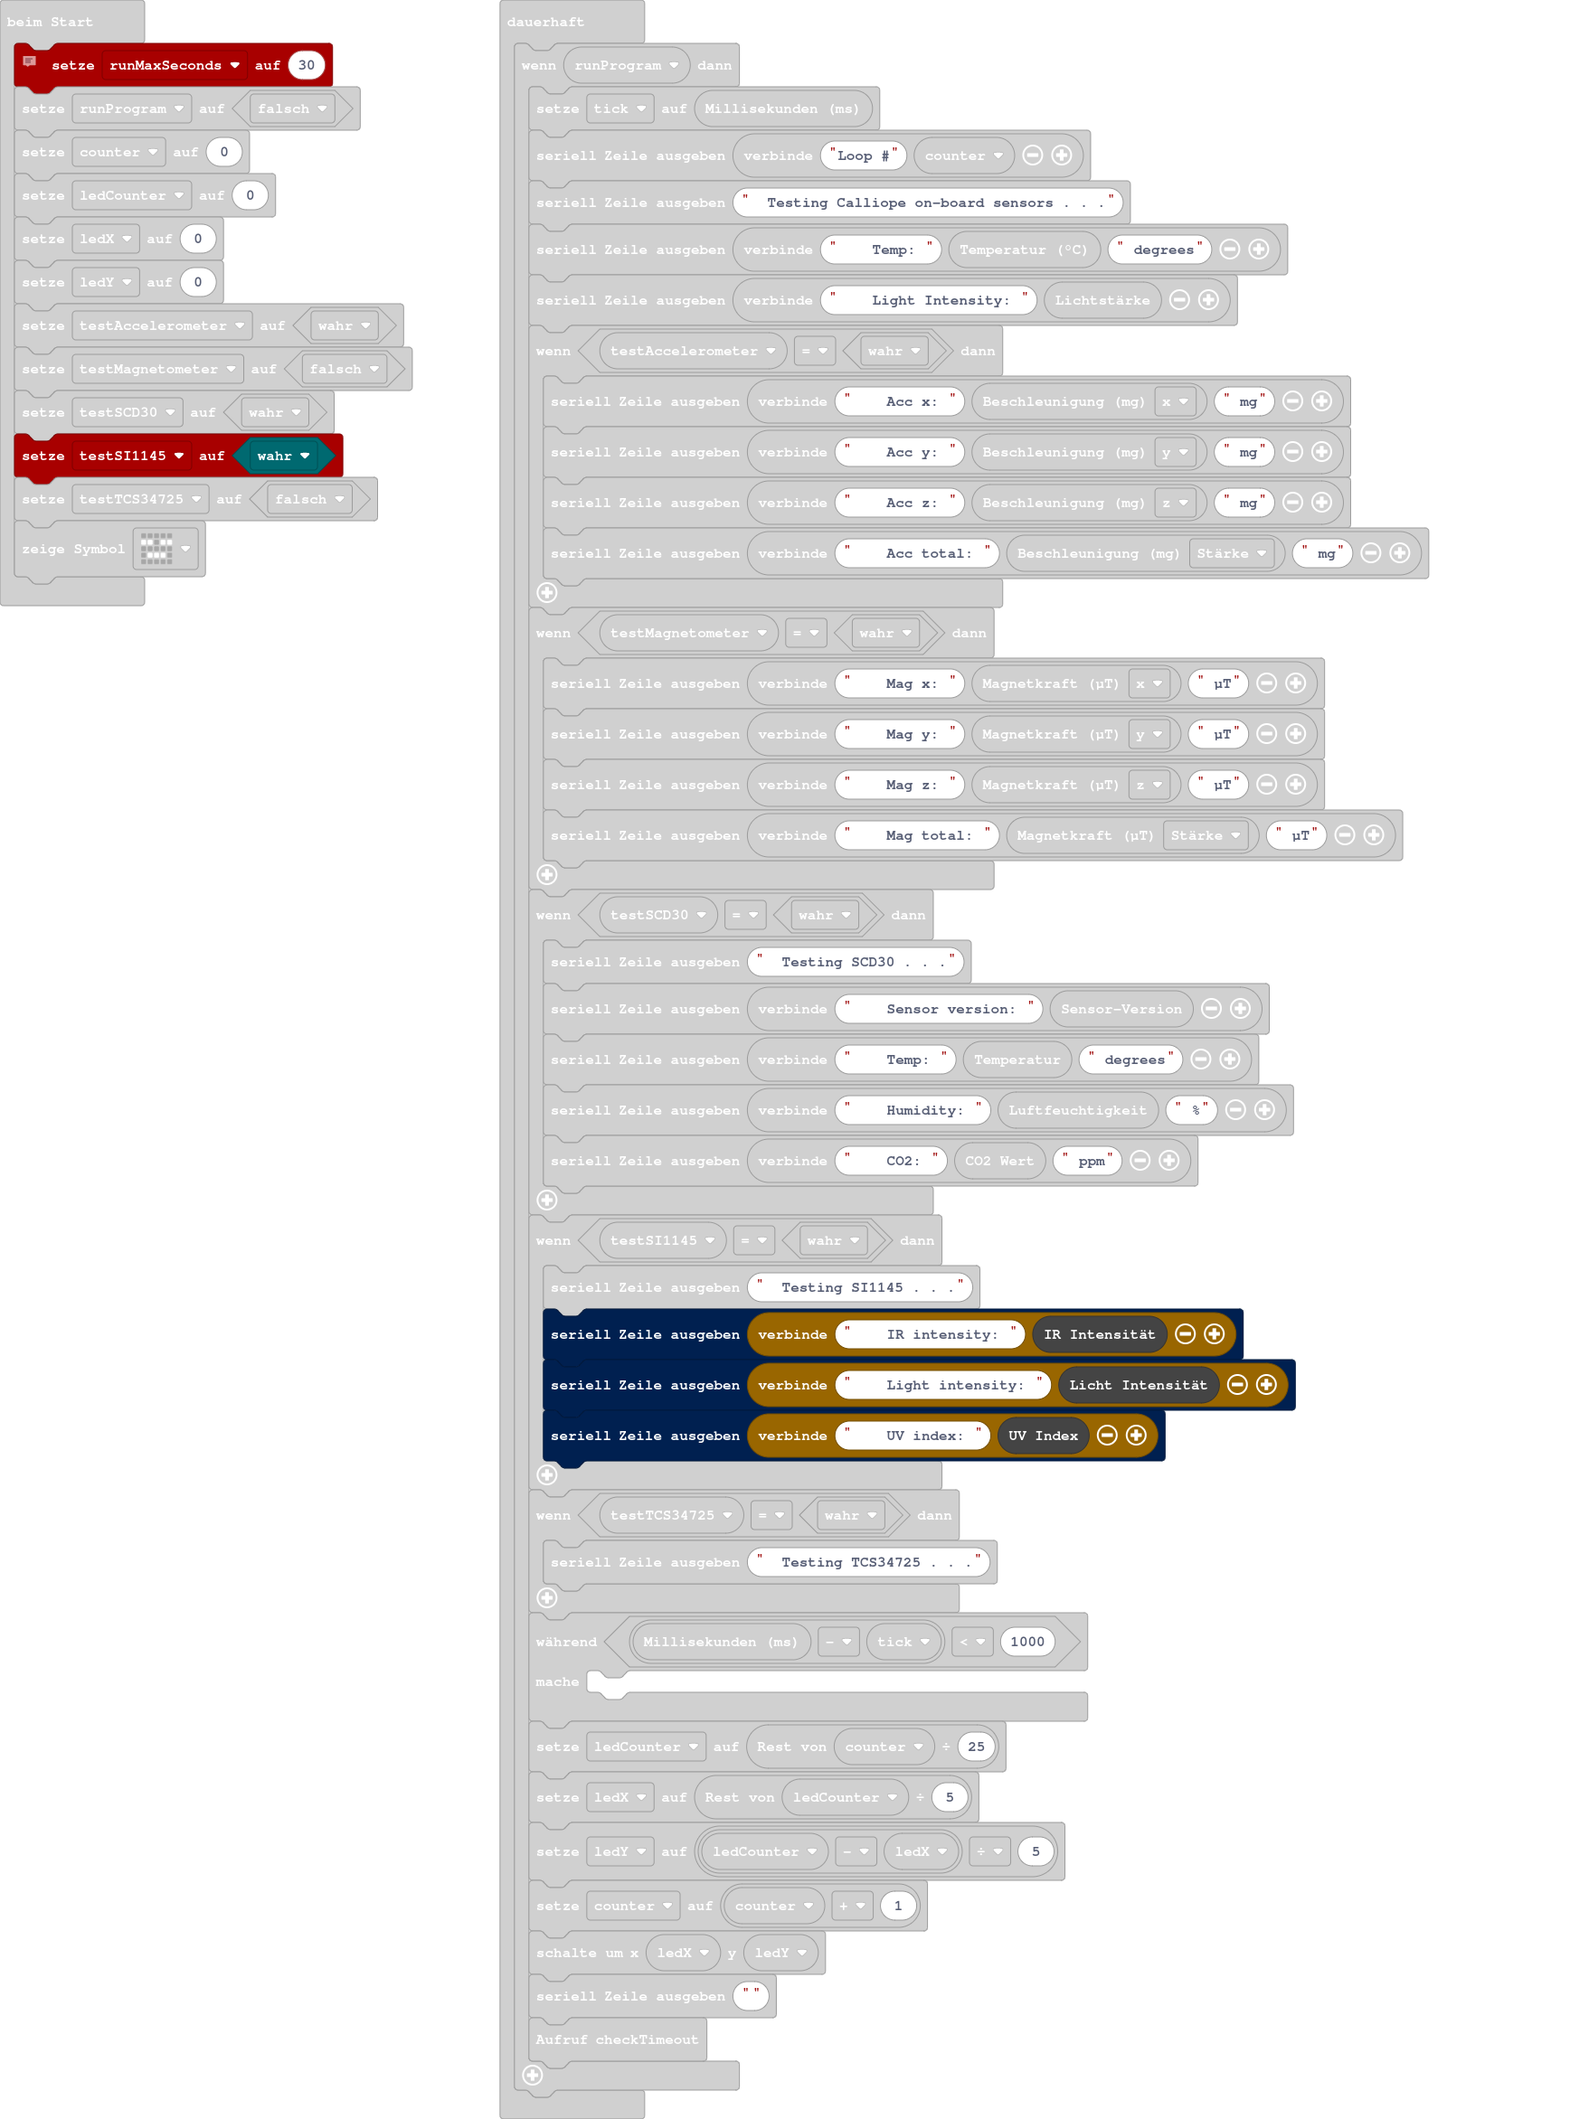
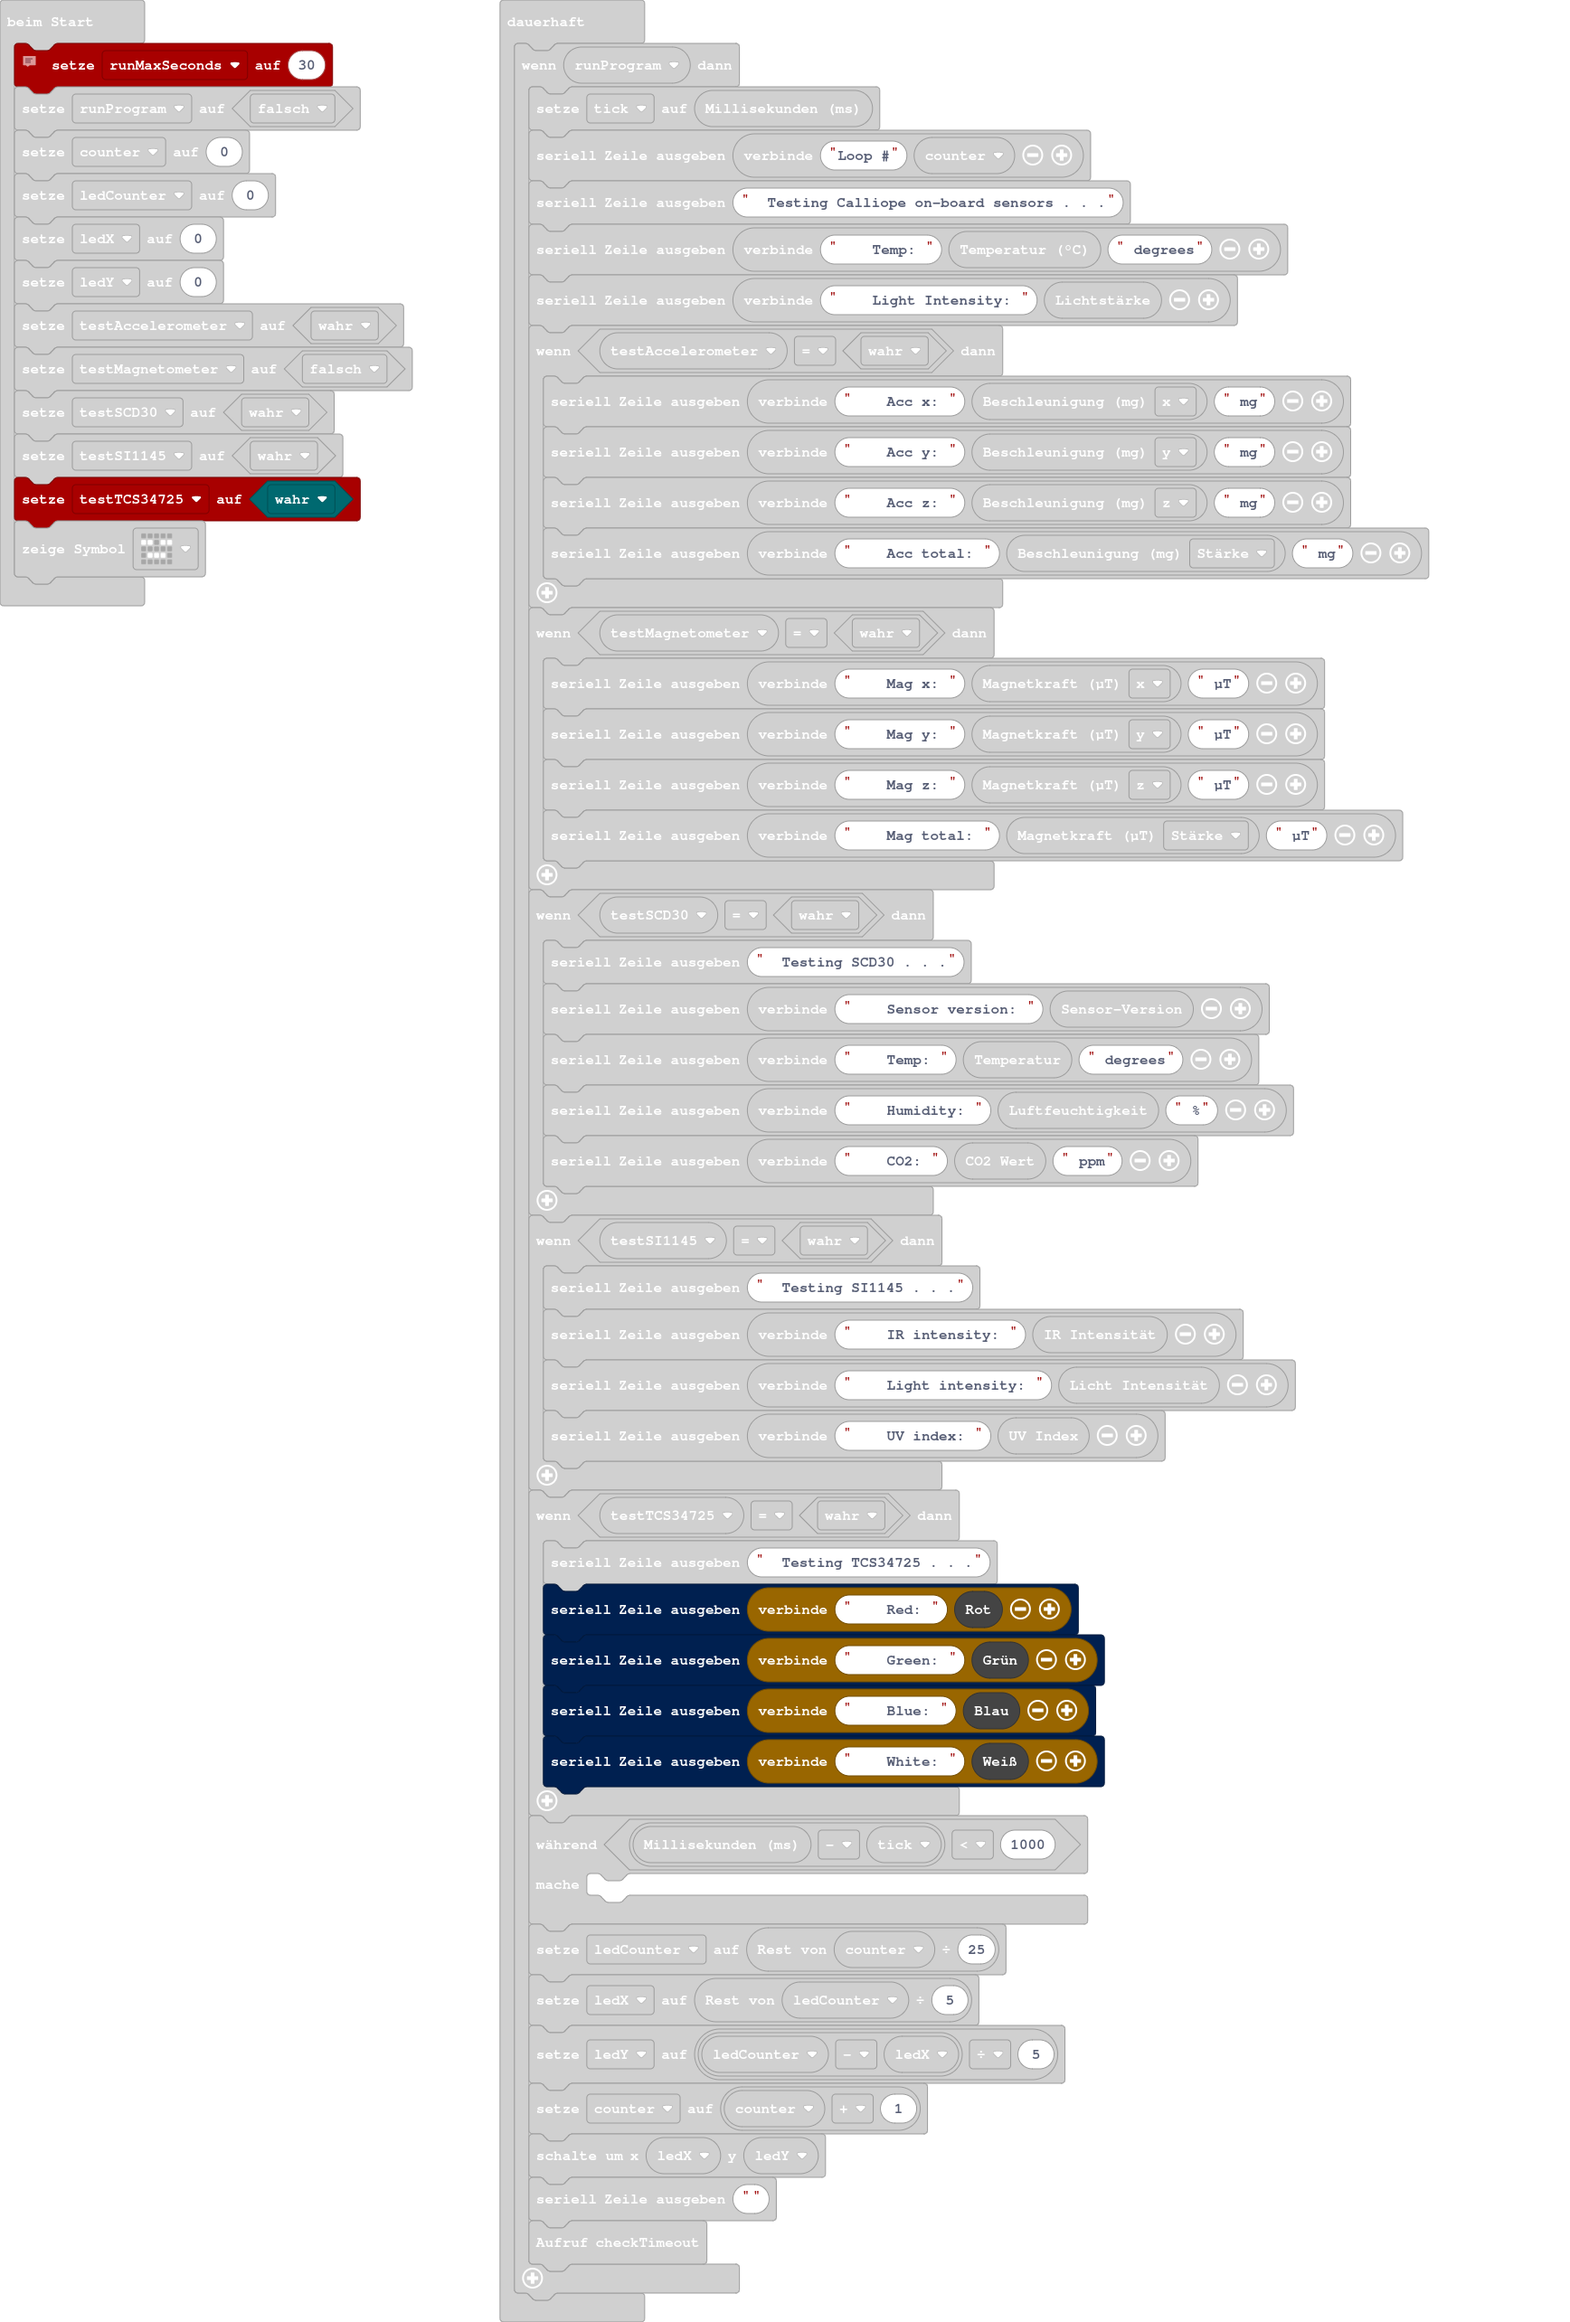
Added RGB color sensor TCS34*

Changed region(s): [[0.3422, 0.0, 0.9332, 0.9966], [0.0, 0.0, 0.28, 0.3114]]

diff --git a/main.ts b/main.ts
@@ -30,7 +30,7 @@ let testAccelerometer = true
 let testMagnetometer = false
 let testSCD30 = true
 let testSI1145 = true
-let testTCS34725 = false
+let testTCS34725 = true
 basic.showIcon(IconNames.Asleep)
 basic.forever(function () {
     if (runProgram) {
@@ -66,6 +66,10 @@ basic.forever(function () {
         }
         if (testTCS34725 == true) {
             serial.writeLine("  Testing TCS34725 . . .")
+            serial.writeLine("    Red: " + TCS3414.readRed())
+            serial.writeLine("    Green: " + TCS3414.readGreen())
+            serial.writeLine("    Blue: " + TCS3414.readBlue())
+            serial.writeLine("    White: " + TCS3414.readClear())
         }
         while (control.millis() - tick < 1000) {
         	
